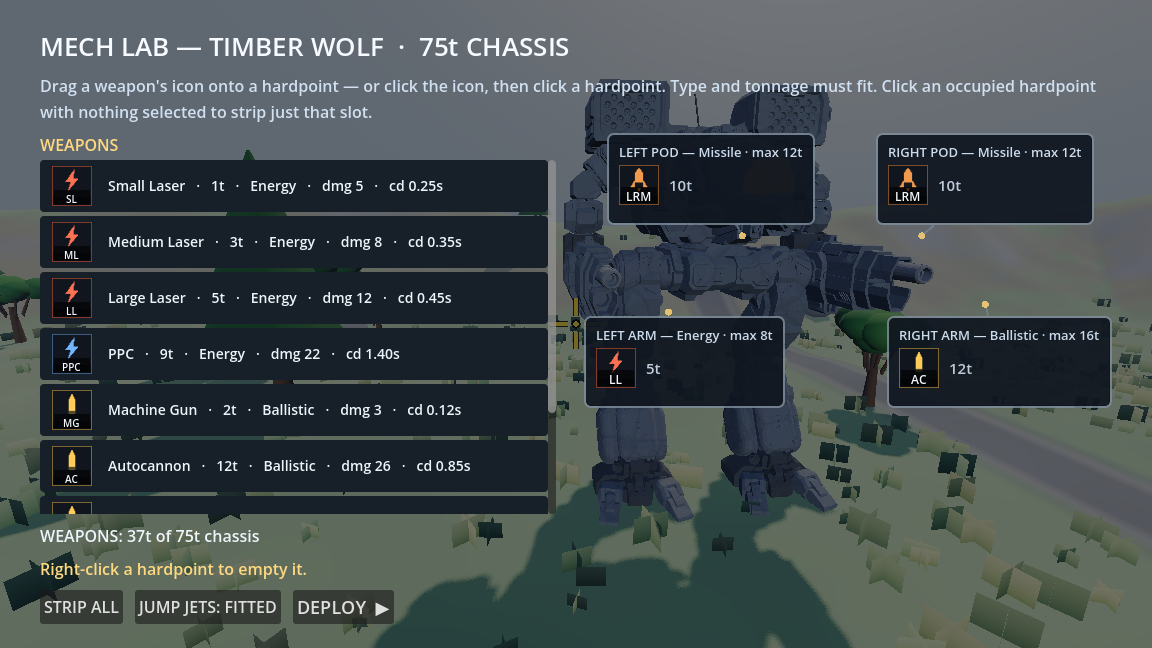
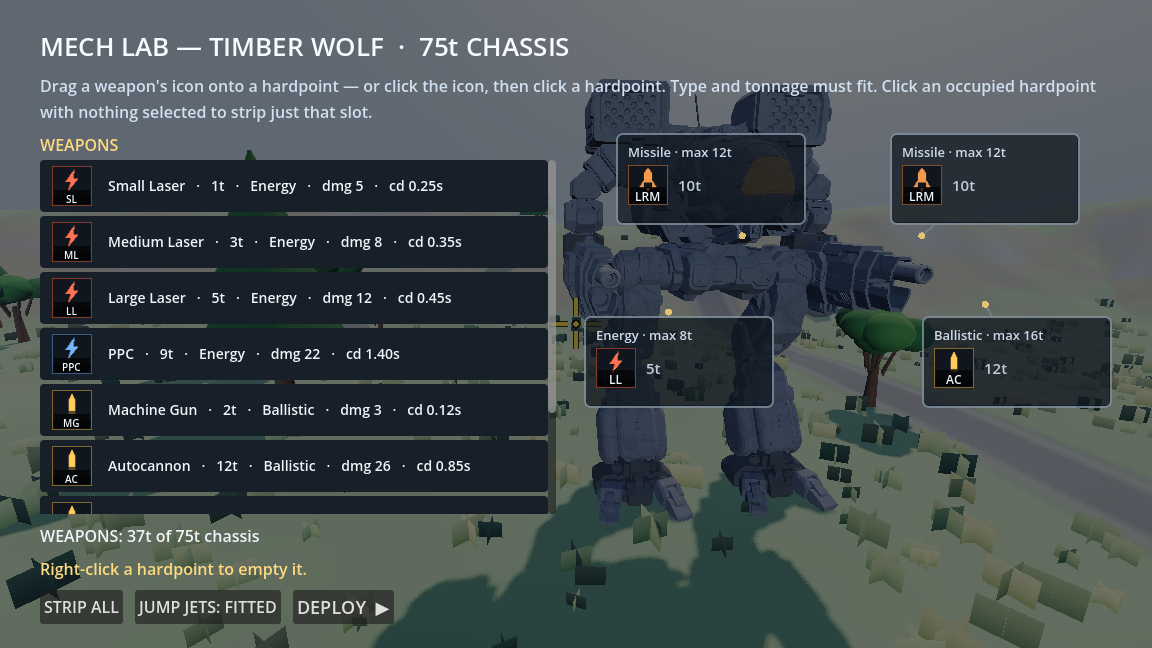
lab: translucent slot backdrops, slot names removed (owner)
Panel fill alpha 0.92 -> 0.72: the machine shows through the slot backdrops. Headers drop the slot names (LEFT POD / RIGHT ARM / ...) and keep only type + capacity — 'Missile · max 12t' — which also narrows the panels. Hint messages still name the slot in words. Verified in a captured frame (proof/lab.png).

diff --git a/godot/MechLab.cs b/godot/MechLab.cs
@@ -356,7 +356,7 @@ public partial class MechLab : Control
             var panel = new SlotPanel { SlotId = slot.Id, Lab = this, CustomMinimumSize = new Vector2(190, 92) };
             var sb = new StyleBoxFlat
             {
-                BgColor = new Color(0.06f, 0.085f, 0.12f, 0.92f),
+                BgColor = new Color(0.06f, 0.085f, 0.12f, 0.72f), // translucent (owner): the mech shows through the slot backdrops
                 BorderColor = new Color(0.5f, 0.56f, 0.62f, 0.8f),
                 ContentMarginLeft = 12, ContentMarginRight = 12,
                 ContentMarginTop = 10, ContentMarginBottom = 10
@@ -366,7 +366,7 @@ public partial class MechLab : Control
             panel.AddThemeStyleboxOverride("panel", sb);
             var vb = new VBoxContainer();
             panel.AddChild(vb);
-            var head = new Label { Text = $"{slot.Display} — {slot.Type} · max {slot.MaxWeight:F0}t" };
+            var head = new Label { Text = $"{slot.Type} · max {slot.MaxWeight:F0}t" }; // slot names removed (owner): type + capacity only
             head.AddThemeFontSizeOverride("font_size", 13); // smaller head: the panel's width is no longer forced by its title
             head.AddThemeColorOverride("font_color", new Color(0.8f, 0.86f, 0.92f));
             vb.AddChild(head);
